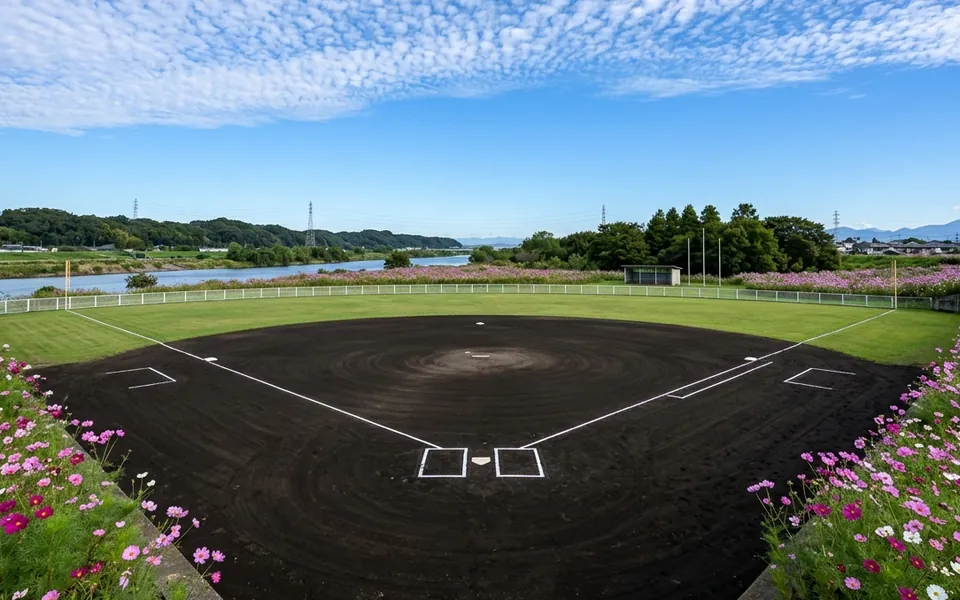
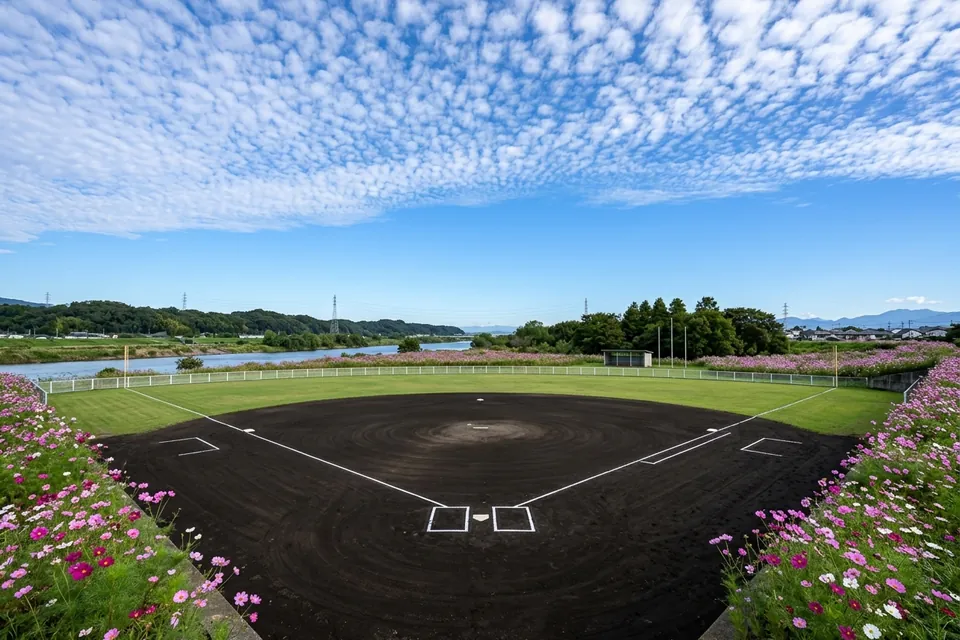
fix(liff): use uncropped 3:2 aspect ratio for calendar seasonal backgrounds to prevent top clipping

diff --git a/src/lib/liff/calendar-month-bg.ts b/src/lib/liff/calendar-month-bg.ts
@@ -3,89 +3,89 @@
 export interface CalendarMonthPhotoMeltAsset {
   /** 1〜12 の月番号 */
   month: number;
-  /** public/ 配下の静的 WebP パス（960×600） */
+  /** public/ 配下の静的 WebP パス（960×640・3:2 ノートリミング） */
   src: string;
-  /** 上部フォト帯で季節モチーフと野球グラウンド双方が映える object-position クラス */
+  /** object-position クラス（aspect-[3/2] コンテナと 1:1 対応し上部切れを防止する object-top） */
   objectPosition: string;
   /** 季節テーマ名（テスト・管理参照用） */
   seasonTheme: string;
 }
 
 /**
- * 月間カレンダー（1月〜12月）用の季節×野球グラウンド専用WebPマップ（全12種・960×600）
- * 特定の人物・背番号・文字看板を含まない日本の野球場と四季の情景で構成
+ * 月間カレンダー（1月〜12月）用の季節×野球グラウンド専用WebPマップ（全12種・960×640 / 3:2）
+ * 上空・季節モチーフ（桜・入道雲・紅葉・富士山等）の頭切れゼロとグラウンド全体の視認性を両立
  */
 export const CALENDAR_MONTH_PHOTO_MELT_ASSETS: readonly CalendarMonthPhotoMeltAsset[] = [
   {
     month: 1,
     src: "/calendar-bg-01.webp",
-    objectPosition: "object-[center_60%]",
+    objectPosition: "object-top",
     seasonTheme: "新春・初日の出と朝霜の河川敷グラウンド",
   },
   {
     month: 2,
     src: "/calendar-bg-02.webp",
-    objectPosition: "object-[center_72%]",
+    objectPosition: "object-top",
     seasonTheme: "紅白梅と早春の野球場",
   },
   {
     month: 3,
     src: "/calendar-bg-03.webp",
-    objectPosition: "object-[center_68%]",
+    objectPosition: "object-top",
     seasonTheme: "菜の花咲く春の河川敷グラウンド",
   },
   {
     month: 4,
     src: "/calendar-bg-04.webp",
-    objectPosition: "object-[center_70%]",
+    objectPosition: "object-top",
     seasonTheme: "満開の桜並木と黒土の野球場",
   },
   {
     month: 5,
     src: "/calendar-bg-05.webp",
-    objectPosition: "object-[center_62%]",
+    objectPosition: "object-top",
     seasonTheme: "新緑と五月晴れのスタジアム",
   },
   {
     month: 6,
     src: "/calendar-bg-06.webp",
-    objectPosition: "object-[center_62%]",
+    objectPosition: "object-top",
     seasonTheme: "紫陽花と梅雨の晴れ間・虹のグラウンド",
   },
   {
     month: 7,
     src: "/calendar-bg-07.webp",
-    objectPosition: "object-[center_65%]",
+    objectPosition: "object-top",
     seasonTheme: "ひまわり咲く初夏の野球場と青空",
   },
   {
     month: 8,
     src: "/calendar-bg-08.webp",
-    objectPosition: "object-[center_70%]",
+    objectPosition: "object-top",
     seasonTheme: "真夏の入道雲と熱闘スタジアム",
   },
   {
     month: 9,
     src: "/calendar-bg-09.webp",
-    objectPosition: "object-[center_74%]",
+    objectPosition: "object-top",
     seasonTheme: "うろこ雲とコスモス揺れる秋晴れの球場",
   },
   {
     month: 10,
     src: "/calendar-bg-10.webp",
-    objectPosition: "object-[center_62%]",
+    objectPosition: "object-top",
     seasonTheme: "黄金色のススキと夕焼けの河川敷球場",
   },
   {
     month: 11,
     src: "/calendar-bg-11.webp",
-    objectPosition: "object-[center_66%]",
+    objectPosition: "object-top",
     seasonTheme: "紅葉とイチョウ並木の秋色スタジアム",
   },
   {
     month: 12,
     src: "/calendar-bg-12.webp",
-    objectPosition: "object-[center_62%]",
+    objectPosition: "object-top",
     seasonTheme: "雪化粧の冬空スタジアム",
   },
 ] as const;

diff --git a/src/components/liff/CalendarMonthPhotoMelt.tsx b/src/components/liff/CalendarMonthPhotoMelt.tsx
@@ -9,19 +9,19 @@ import {
 } from "@/lib/liff/calendar-month-bg";
 
 const preloadedCalendarSources = new Set<string>();
-const CALENDAR_PHOTO_ASSET_REVISION = "2";
+const CALENDAR_PHOTO_ASSET_REVISION = "3";
 
 function withCalendarAssetRevision(src: string): string {
   return `${src}?v=${CALENDAR_PHOTO_ASSET_REVISION}`;
 }
 
 const CALENDAR_PHOTO_MELT_MASK =
-  "linear-gradient(to bottom, rgba(0,0,0,0.98) 0%, rgba(0,0,0,0.90) 58%, rgba(0,0,0,0.36) 70%, rgba(0,0,0,0.11) 83%, rgba(0,0,0,0.02) 93%, rgba(0,0,0,0) 100%)";
+  "linear-gradient(to bottom, rgba(0,0,0,0.98) 0%, rgba(0,0,0,0.90) 60%, rgba(0,0,0,0.30) 71%, rgba(0,0,0,0.09) 83%, rgba(0,0,0,0.02) 93%, rgba(0,0,0,0) 100%)";
 
 export interface CalendarMonthPhotoMeltProps {
   /** 表示中の月（1〜12） */
   month: number;
-  /** カレンダー種別に応じた高さバリアント */
+  /** カレンダー種別に応じたバリアント（互換保持） */
   variant?: "default" | "compact";
   /** 初回ファーストビュー表示時は eager 指定可 */
   eager?: boolean;
@@ -30,12 +30,12 @@ export interface CalendarMonthPhotoMeltProps {
 
 /**
  * 月間カレンダーの A-3 上帯ダークキャップ直下に配置する季節フォト背景染み込みレイヤー
- * - 上部で季節風景＋野球グラウンド（外野芝・黒土ダイヤモンド・白線）までくっきり見せ、曜日〜日付グリッド上部へ mask-image で段階透過して bg-card へ溶け込ませる
+ * - 元画像と完全同一の `aspect-[3/2]` で描画することで、上空・木々・入道雲の頭切れゼロ（0pxトリミング）と
+ *   外野芝・黒土ダイヤモンド全体の鮮明表示を両立し、下端 71%〜100% で曜日・日付グリッドへ自然に溶け込ませる
  * - 前月・翌月のWebPをバックグラウンドで先読みし、月切り替え時の空白チラつきをゼロにする
  */
 export function CalendarMonthPhotoMelt({
   month,
-  variant = "default",
   eager = false,
   className,
 }: CalendarMonthPhotoMeltProps) {
@@ -59,8 +59,7 @@ export function CalendarMonthPhotoMelt({
     <div
       aria-hidden="true"
       className={cn(
-        "absolute inset-x-0 top-0 pointer-events-none select-none overflow-hidden",
-        variant === "compact" ? "h-48 sm:h-56" : "h-53 sm:h-60",
+        "absolute inset-x-0 top-0 w-full aspect-[3/2] pointer-events-none select-none overflow-hidden",
         className
       )}
     >
@@ -68,7 +67,7 @@ export function CalendarMonthPhotoMelt({
         src={versionedSrc}
         alt=""
         width={960}
-        height={600}
+        height={640}
         loading={eager ? "eager" : "lazy"}
         decoding="async"
         style={{

diff --git a/src/app/liff/schedule/page.tsx b/src/app/liff/schedule/page.tsx
@@ -1319,7 +1319,7 @@ export default function LiffSchedulePage() {
           <div className="relative bg-card overflow-hidden">
             <CalendarMonthPhotoMelt month={currentMonth + 1} variant="compact" eager />
 
-            <div className="relative z-10 px-2.5 pb-2.5 pt-32 sm:px-3 sm:pb-3 sm:pt-38 space-y-1.5">
+            <div className="relative z-10 px-2.5 pb-2.5 pt-[47%] sm:px-3 sm:pb-3 sm:pt-[47%] space-y-1.5">
           {/* 曜日ヘッダー */}
           <div className="grid grid-cols-7 gap-0.5 text-center text-[10px] font-black pb-0.5 border-b border-border/60">
             {weekDays.map((w, idx) => (

diff --git a/src/components/liff/HubCalendarSection.tsx b/src/components/liff/HubCalendarSection.tsx
@@ -279,7 +279,7 @@ export function HubCalendarSection({
         <div className="relative bg-card overflow-hidden">
           <CalendarMonthPhotoMelt month={currentMonth + 1} variant="default" />
 
-          <div className="relative z-10 px-3.5 pb-3.5 pt-36 sm:pt-41 space-y-2.5">
+          <div className="relative z-10 px-3.5 pb-3.5 pt-[47.5%] space-y-2.5">
         {/* ━━ 2. 曜日ヘッダー ━━ */}
         <div className="grid grid-cols-7 text-center text-[10px] font-black text-foreground uppercase pb-0.5 border-b border-border/60">
           {weekDays.map((day, idx) => (

diff --git a/src/components/schedule/MonthlySchedulePlanner.tsx b/src/components/schedule/MonthlySchedulePlanner.tsx
@@ -899,7 +899,7 @@ export function MonthlySchedulePlanner({
         <div className="relative bg-card overflow-hidden">
           <CalendarMonthPhotoMelt month={currentMonth + 1} variant="default" eager />
 
-          <div className="relative z-10 px-3.5 pb-3.5 pt-36 sm:pt-41 space-y-2">
+          <div className="relative z-10 px-3.5 pb-3.5 pt-[47.5%] space-y-2">
           {/* 曜日ヘッダー */}
           <div className="grid grid-cols-7 gap-1 text-center text-xs font-black">
             {weekDays.map((w, idx) => (
